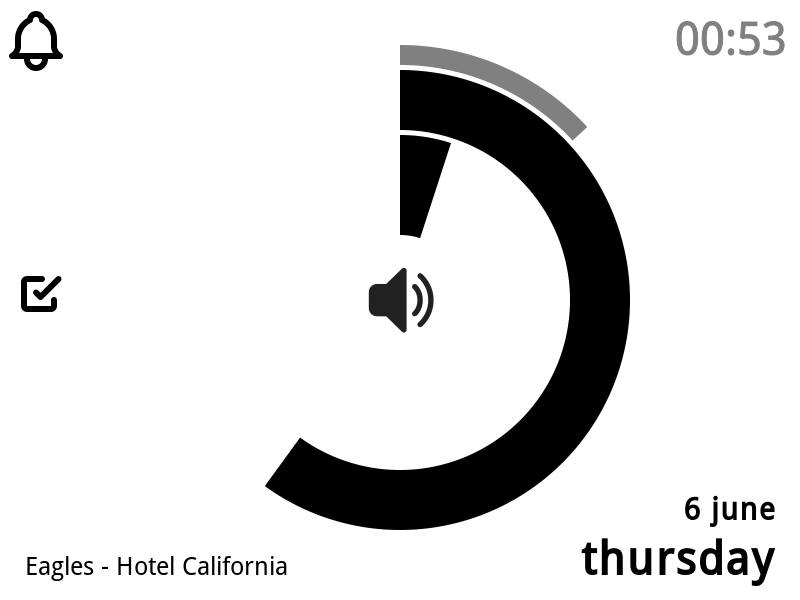
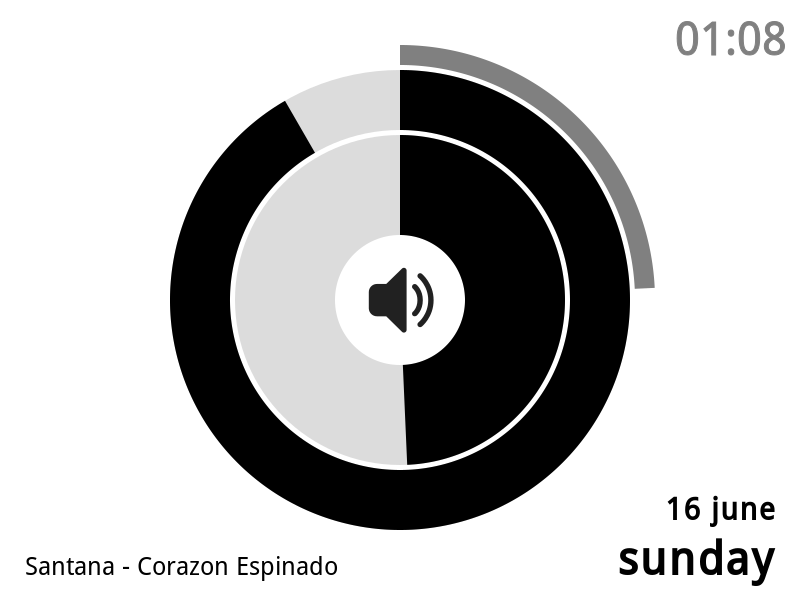
update

diff --git a/server/opt/lib/kindle-analog-clock/clock.py b/server/opt/lib/kindle-analog-clock/clock.py
@@ -22,7 +22,8 @@ this_file = os.path.realpath(__file__)
 path = Path(this_file).parents[0]
 os.chdir(str(path))
 
-#from KindleAudio import KindleMusic, KindleAlarm
+kindleIP = '192.168.2.2'
+
 import SVGtools
 
 def send_message(m):
@@ -40,7 +41,7 @@ def wordwrap(text, length):
     return w
 
 def reset_display():
-    cmd = f'ssh root@192.168.2.2 \"cd /tmp; /usr/sbin/eips -c\"'
+    cmd = f'ssh root@{kindleIP} \"cd /tmp; /usr/sbin/eips -c\"'
     proc = Popen([cmd],shell=True, stdout=PIPE, stderr=PIPE)
 
 def load_icon(x, y, name, scale=3.0, mirror=False):
@@ -50,9 +51,9 @@ def load_icon(x, y, name, scale=3.0, mirror=False):
         a = f.read()
     f.close()
     if mirror == True:
-        b = SVGtools.transform('({},0,0,{},{},{})'.format(-scale, scale, x, y), a).svg()
+        b = SVGtools.transform(f'({-scale},0,0,{scale},{x},{y})', a).svg()
     else:
-        b = SVGtools.transform('({},0,0,{},{},{})'.format(scale, scale, x, y), a).svg()
+        b = SVGtools.transform(f'({scale},0,0,{scale},{x},{y})', a).svg()
     return b
 
 def create_svg(c, _svg):
@@ -229,12 +230,14 @@ def music(c, w, h, c_music, hr, mi, sec):
             title = ' '.join(a[title_location[0]:artist_location[0]]) if not title_location == list() and not artist_location == list() else 'n/a'
             artist = ' '.join(a[artist_location[0]:album_location[0]]) if not artist_location == list() and not album_location == list() else 'n/a'
             album = ' '.join(a[album_location[0]:end_location[0]]) if not album_location == list() and not end_location == list() else 'n/a'
+
             # Fix encoding errors
             def fix_encode(n):
                 #out = encode(n, encoding='latin_1', errors='replace')
                 #n = out.decode('latin_1')
                 n = re.sub(r'&', '&amp;', n)
                 return n
+                
             title = fix_encode(title)
             artist = fix_encode(artist)
             album = fix_encode(album)
@@ -284,7 +287,7 @@ def music(c, w, h, c_music, hr, mi, sec):
             svg += SVGtools.line(x1=0, x2=(progress / 99 * 800), y1=600, y2=600, style=style).svg()
             x, y = 25, 585
             font_size = 25
-            length = 35
+            length = 40
             svg += SVGtools.text(anchor='start', fontsize=font_size, x=x, y=y, v=wordwrap(title, length)).svg()
             #y += 30
             #svg += SVGtools.text(anchor='start', fontsize=font_size, x=x, y=y, v=wordwrap(artist, length), stroke='rgb(128,128,128)').svg()
@@ -409,11 +412,17 @@ def main(c, c_alarm, c_music, c_schedule, w, h, flag_svg, flag_config, flag_disp
                      'innerRadiusX': c['stroke_sec_inner_radius'], 'innerRadiusY': c['stroke_sec_inner_radius'],
                       'v': sec, 'step': 60, 'color': c['color_sec']}
             clock_se = DrawClock(**kw2)
+            # Background color
+            clock_se_bg_svg = SVGtools.circle(cx=(w * 0.5), cy=(h * 0.5), r=((c['stroke_sec_radius'] + c['stroke_sec_inner_radius']) * 0.5), \
+                                    stroke=c['bg_color_sec'], width=(c['stroke_sec_radius'] - c['stroke_sec_inner_radius'])).svg()
             # Minite
             #mi
             kw2 = {'w': w, 'h': h, 'radiusX': c['stroke_min_radius'], 'radiusY': c['stroke_min_radius'],
                     'innerRadiusX': c['stroke_min_inner_radius'], 'innerRadiusY': c['stroke_min_inner_radius'],
                     'v': mi, 'step': 60, 'color': c['color_min']}
+            # Background color
+            clock_mi_bg_svg = SVGtools.circle(cx=(w * 0.5), cy=(h * 0.5), r=((c['stroke_min_radius'] + c['stroke_min_inner_radius']) * 0.5), \
+                                    stroke=c['bg_color_min'], width=(c['stroke_min_radius'] - c['stroke_min_inner_radius'])).svg()
             clock_mi = DrawClock(**kw2)
             # Hour
             a = hr + mi / 60
@@ -422,6 +431,9 @@ def main(c, c_alarm, c_music, c_schedule, w, h, flag_svg, flag_config, flag_disp
             kw2 = {'w': w, 'h': h, 'radiusX': c['stroke_hour_radius'], 'radiusY': c['stroke_hour_radius'],
                     'innerRadiusX': c['stroke_hour_inner_radius'], 'innerRadiusY': c['stroke_hour_inner_radius'],
                      'v': _hr, 'step': 12, 'color': c['color_hour']}
+            # Background color
+            clock_hr_bg_svg = SVGtools.circle(cx=(w * 0.5), cy=(h * 0.5), r=((c['stroke_hour_radius'] + c['stroke_hour_inner_radius']) * 0.5), \
+                                    stroke=c['bg_color_hour'], width=(c['stroke_hour_radius'] - c['stroke_hour_inner_radius'])).svg()
             clock_hr = DrawClock(**kw2)
             # Date
             if c['show_date'] == 'True':
@@ -443,13 +455,16 @@ def main(c, c_alarm, c_music, c_schedule, w, h, flag_svg, flag_config, flag_disp
             if task_run == True:
                 _svg = schedule_svg + date_svg 
             elif alarm_run == True:
-                _svg = clock_se.svg() + clock_mi.svg() + clock_hr.svg() + alarm_svg + date_svg
+                _svg = clock_se_bg_svg + clock_se.svg() + clock_mi_bg_svg + clock_mi.svg() + clock_hr_bg_svg + \
+                        clock_hr.svg() + alarm_svg + date_svg
             elif c_music['env']['display'] == 'circle' and music_run == True:
-                _svg = clock_mi.svg() + clock_hr.svg() + music_svg + date_svg
+                _svg = clock_mi_bg_svg + clock_mi.svg() + clock_hr_bg_svg + clock_hr.svg() + music_svg + date_svg
             elif c_music['env']['display'] == 'bar' and music_run == True:
-                _svg = clock_se.svg() + clock_mi.svg() + clock_hr.svg() + music_svg + date_svg
+                _svg = clock_se_bg_svg + clock_se.svg() + clock_mi_bg_svg + clock_mi.svg() + clock_hr_bg_svg + \
+                        clock_hr.svg() + music_svg + date_svg
             else:
-                _svg = clock_se.svg() + clock_mi.svg() + clock_hr.svg() + alarm_svg + music_svg + schedule_svg + date_svg
+                _svg = clock_se_bg_svg + clock_se.svg() + clock_mi_bg_svg + clock_mi.svg() + clock_hr_bg_svg + \
+                        clock_hr.svg() + alarm_svg + music_svg + schedule_svg + date_svg
             svg = create_svg(c, _svg)
             if flag_svg == True:
                 with open('analog_clock.svg', 'w') as f:
@@ -469,9 +484,9 @@ def main(c, c_alarm, c_music, c_schedule, w, h, flag_svg, flag_config, flag_disp
                         display(img)
                 img.close()
             if not flag_display == True and not flag_png == True:
-                cmd = f'scp /tmp/{flatten_png} root@192.168.2.2:/tmp'
+                cmd = f'scp /tmp/{flatten_png} root@{kindleIP}:/tmp'
                 proc2 = Popen([cmd],shell=True, stdout=PIPE, stderr=PIPE).wait()
-                cmd = f'ssh root@192.168.2.2 \"cd /tmp; /usr/sbin/eips -g {flatten_png}\"'
+                cmd = f'ssh root@{kindleIP} \"cd /tmp; /usr/sbin/eips -g {flatten_png}\"'
                 proc3 = Popen([cmd],shell=True, stdout=PIPE, stderr=PIPE)
             t.sleep(0.5)
      

diff --git a/server/opt/lib/kindle-analog-clock/SVGtools.py b/server/opt/lib/kindle-analog-clock/SVGtools.py
@@ -36,7 +36,7 @@ class text2:
 
 
 class circle:
-    def __init__(self, cx, cy, r, stroke, width, fill):
+    def __init__(self, cx, cy, r, stroke, width, fill='none'):
         self.cx = cx
         self.cy = cy
         self.r = r

diff --git a/README.md b/README.md
@@ -274,7 +274,7 @@ e.g.)
 
 - [Amazon Kindle](https://www.amazon.com/), Amazon's E Ink e-readers.
 - [Mplayer](https://www.mobileread.com/forums/showthread.php?t=119851), Kindle3 media player
-- [SVG Icon](https://iconduck.com/), public dmain SVG icon site.
+- [SVG Icon](https://iconduck.com/), public domain SVG icon site.
   - bell icon: MIT License
   - bell ringing 2 icon: MIT License
   - task done icon: MIT License
